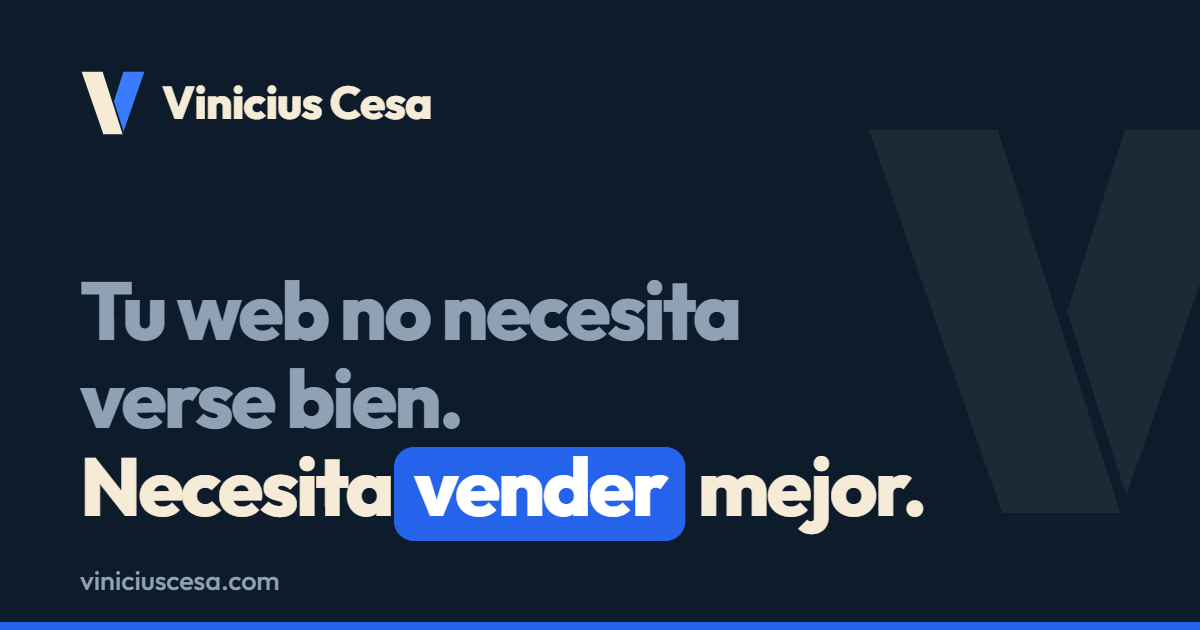
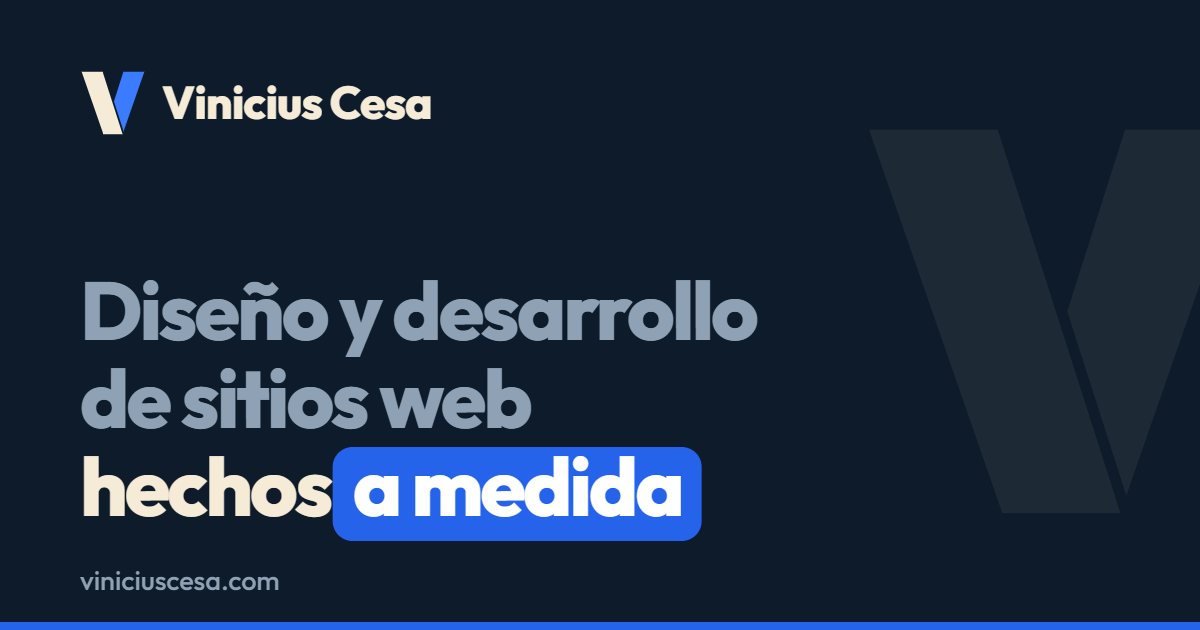
Preguntas usa la estructura del resto y nueva imagen de vista previa
La columna de preguntas tenia marcado propio en vez de un
.seccion__encabezado como el resto del sitio: la separacion entre la
pastilla y el titulo no coincidia con la de proyectos, servicios ni
contacto. Ahora usa la misma estructura.

El remate que manda a contacto vuelve adentro de la columna. Estaba
afuera, colocado con grid-row para que en celular cayera despues de las
preguntas, pero la lista abarca las dos filas, eso infla la primera y
el remate terminaba flotando a 150px del texto de arriba.

Suma LinkedIn a las vias de contacto.

Imagen de vista previa nueva: deja de decir 'Tu web no necesita verse
bien' y pasa a decir que hace. Una promesa de marketing envejece y
obliga a regenerar la imagen cada vez que cambia el discurso.

Changed region(s): [[0.0617, 0.4222, 0.7708, 0.8746]]

diff --git a/index.html b/index.html
@@ -34,7 +34,7 @@
   <meta property="og:url" content="https://viniciuscesa.com/">
   <!-- La imagen que se ve al compartir el link. Tiene que ser PNG o JPG
        de 1200x630: WhatsApp y Facebook no leen SVG. -->
-  <meta property="og:image" content="https://viniciuscesa.com/assets/img/og-image.png?v=202610060323">
+  <meta property="og:image" content="https://viniciuscesa.com/assets/img/og-image.png?v=202610060332">
   <meta property="og:image:type" content="image/png">
   <meta property="og:image:width" content="1200">
   <meta property="og:image:height" content="630">
@@ -43,7 +43,7 @@
   <meta name="twitter:card" content="summary_large_image">
   <meta name="twitter:title" content="Vinicius Cesa — Diseño y desarrollo web">
   <meta name="twitter:description" content="Diseño y desarrollo de sitios web a medida para que tu trabajo se tome en serio y convierta consultas en clientes.">
-  <meta name="twitter:image" content="https://viniciuscesa.com/assets/img/og-image.png?v=202610060323">
+  <meta name="twitter:image" content="https://viniciuscesa.com/assets/img/og-image.png?v=202610060332">
 
   <!-- ===================================================================
        FAVICON Y COLOR DE MARCA
@@ -166,12 +166,12 @@
     }
   </script>
 
-  <link rel="stylesheet" href="css/styles.css?v=202610060323">
+  <link rel="stylesheet" href="css/styles.css?v=202610060332">
 
   <!-- Habilita las animaciones de entrada. Sin defer: tiene que correr
        antes del primer pintado. Si este archivo no carga, el sitio se ve
        completo y sin animaciones, que es lo que queremos. -->
-  <script src="js/activar-animaciones.js?v=202610060323"></script>
+  <script src="js/activar-animaciones.js?v=202610060332"></script>
 </head>
 
 <body>
@@ -661,12 +661,24 @@
     <section class="preguntas seccion seccion--gris" id="preguntas">
       <div class="contenedor preguntas__interior">
 
-        <div class="preguntas__columna aparece">
-          <p class="etiqueta">Preguntas</p>
-          <h2 data-revelar>Preguntas frecuentes</h2>
-          <p class="preguntas__bajada">
-            Las dudas que aparecen siempre, resueltas antes de que
-            tengas que preguntarlas.
+        <!-- Misma estructura que Contacto: un .seccion__encabezado con la
+             pastilla, el titulo y la bajada, y abajo el remate. Antes
+             esta columna tenia marcado propio, y por eso la separacion
+             entre la pastilla y el titulo no coincidia con la del resto
+             del sitio. -->
+        <div class="preguntas__columna">
+          <div class="seccion__encabezado aparece aparece--izq">
+            <p class="etiqueta">Preguntas</p>
+            <h2 data-revelar>Preguntas frecuentes</h2>
+            <p>
+              Las dudas que aparecen siempre, resueltas antes de que
+              tengas que preguntarlas.
+            </p>
+          </div>
+
+          <p class="preguntas__pie aparece">
+            ¿No está la tuya?
+            <a href="#contacto">Escribime y te la contesto</a>.
           </p>
         </div>
 
@@ -727,13 +739,6 @@
           </details>
         </div>
 
-        <!-- El remate es hermano de la lista y no hijo de la columna: en
-             celular tiene que caer DESPUES de las preguntas. Ver el
-             comentario de .preguntas__pie en el CSS. -->
-        <p class="preguntas__pie aparece">
-          ¿No está la tuya?
-          <a href="#contacto">Escribime y te la contesto</a>.
-        </p>
 
       </div>
     </section>
@@ -804,6 +809,22 @@
                 <span class="via__texto">
                   <span class="via__rotulo">Instagram</span>
                   <span class="via__valor">@vinii.cesa</span>
+                </span>
+                <span class="via__flecha" aria-hidden="true">&rarr;</span>
+              </a>
+            </li>
+            <li>
+              <a class="via" href="https://www.linkedin.com/in/vinicius-cesa-ribeiro-532b61336/"
+                 target="_blank" rel="noopener noreferrer"
+                 aria-label="LinkedIn (se abre en una pestaña nueva)">
+                <span class="via__icono" aria-hidden="true">
+                  <svg viewBox="0 0 24 24" fill="none" stroke="currentColor"
+                       stroke-width="1.8" stroke-linecap="round"
+                       stroke-linejoin="round"><path d="M16 8a6 6 0 0 1 6 6v7h-4v-7a2 2 0 0 0-4 0v7h-4v-7a6 6 0 0 1 6-6z"></path><rect x="2" y="9" width="4" height="12"></rect><circle cx="4" cy="4" r="2"></circle></svg>
+                </span>
+                <span class="via__texto">
+                  <span class="via__rotulo">LinkedIn</span>
+                  <span class="via__valor">Vinicius Cesa</span>
                 </span>
                 <span class="via__flecha" aria-hidden="true">&rarr;</span>
               </a>
@@ -1106,7 +1127,7 @@
        defer hace que el navegador siga armando la pagina mientras
        descarga el script, y lo ejecute cuando el HTML esta completo.
        =================================================================== -->
-  <script src="js/main.js?v=202610060323" defer></script>
+  <script src="js/main.js?v=202610060332" defer></script>
 
 </body>
 </html>

diff --git a/css/styles.css b/css/styles.css
@@ -3085,13 +3085,6 @@ p {
   gap: var(--esp-7);
 }
 
-.preguntas__bajada {
-  margin-top: var(--esp-4);
-  max-width: 34ch;
-  font-size: var(--texto-lg);
-  color: var(--color-texto-suave);
-}
-
 .preguntas__pie a {
   color: var(--color-acento-legible);
   text-decoration: underline;
@@ -3237,17 +3230,13 @@ p {
   block-size: auto;
 }
 
-/* EL REMATE VA AL FINAL EN CELULAR.
+/* El remate vive adentro de la columna, debajo del encabezado, igual
+   que las vias de contacto viven debajo del encabezado de Contacto.
 
-   "¿No esta la tuya? Escribime" esta pensado para despues de haber
-   leido las preguntas. En escritorio vive en la columna de la izquierda
-   y eso se entiende solo, porque esta al costado. Pero apilado en un
-   telefono quedaba ARRIBA de las preguntas: lo invitaba a escribir
-   antes de haber leido una sola respuesta.
-
-   Por eso el remate es hermano de la lista y no hijo de la columna: en
-   celular cae ultimo por orden natural, y en escritorio se lo manda de
-   vuelta a la primera columna con grid-row. */
+   Se probo sacandolo afuera y colocandolo con grid-row, para que en
+   celular cayera despues de las preguntas. Salio mal: la lista abarca
+   las dos filas, eso infla la primera, y el remate terminaba flotando a
+   150px del texto de arriba. */
 .preguntas__pie {
   margin-top: var(--esp-5);
   font-size: var(--texto-base);
@@ -3261,24 +3250,6 @@ p {
     grid-template-columns: minmax(16rem, 0.8fr) 1.5fr;
     gap: var(--esp-8, 5rem);
     align-items: start;
-  }
-
-  /* Colocacion explicita: titulo arriba a la izquierda, remate debajo
-     de el, y la lista ocupando las dos filas de la segunda columna. */
-  .preguntas__columna {
-    grid-column: 1;
-    grid-row: 1;
-  }
-
-  .preguntas__pie {
-    grid-column: 1;
-    grid-row: 2;
-    margin-top: 0;
-  }
-
-  .preguntas__lista {
-    grid-column: 2;
-    grid-row: 1 / span 2;
   }
 }
 

diff --git a/herramientas/generar-og.html b/herramientas/generar-og.html
@@ -26,9 +26,17 @@ cargarse por HTTP), y hacé clic en el botón. Se descarga el PNG; copialo a
 
 <script>
 /* ---- TITULAR: cambiá estas cuatro líneas y listo ---- */
-const LINEA_SUAVE_1 = 'Tu web no necesita';
-const LINEA_SUAVE_2 = 'verse bien.';
-const LINEA_FUERTE  = ['Necesita ', 'vender', ' mejor.'];  // el del medio va en la caja azul
+/* Antes decia 'Tu web no necesita verse bien. Necesita vender mejor.'
+   Se cambio por lo que HACE y no por lo que promete: una promesa de
+   marketing envejece (esa era de una etapa anterior de la marca) y
+   ademas obliga a regenerar la imagen cada vez que cambia el discurso.
+   Lo que hace, no cambia. */
+const LINEA_SUAVE_1 = 'Diseño y desarrollo';
+const LINEA_SUAVE_2 = 'de sitios web';
+const LINEA_FUERTE  = ['hechos ', 'a medida', ''];  // el del medio va en la caja azul
+/* El tercer elemento va vacio: el texto que sigue a la caja azul se
+   dibuja con la misma separacion que lleva la caja por dentro, asi que
+   un punto solo quedaba flotando lejos de la palabra. Probado. */
 const DOMINIO       = 'viniciuscesa.com';
 
 /* ---- colores de marca ---- */

diff --git a/404.html b/404.html
@@ -22,7 +22,7 @@
   <!-- Las rutas arrancan con "/" a proposito. Esta pagina se muestra en
        cualquier direccion inexistente, incluso en una profunda como
        /algo/otra-cosa; con rutas relativas el CSS no cargaria desde ahi. -->
-  <link rel="stylesheet" href="/css/styles.css?v=202610060323">
+  <link rel="stylesheet" href="/css/styles.css?v=202610060332">
 </head>
 
 <body>

diff --git a/legal.html b/legal.html
@@ -22,7 +22,7 @@
   <!-- Misma hoja de estilos que el resto del sitio: los colores y las
        tipografias salen de las mismas variables, asi nunca se
        desincroniza el diseno entre paginas. -->
-  <link rel="stylesheet" href="css/styles.css?v=202610060323">
+  <link rel="stylesheet" href="css/styles.css?v=202610060332">
 </head>
 
 <body class="pagina-legal">
